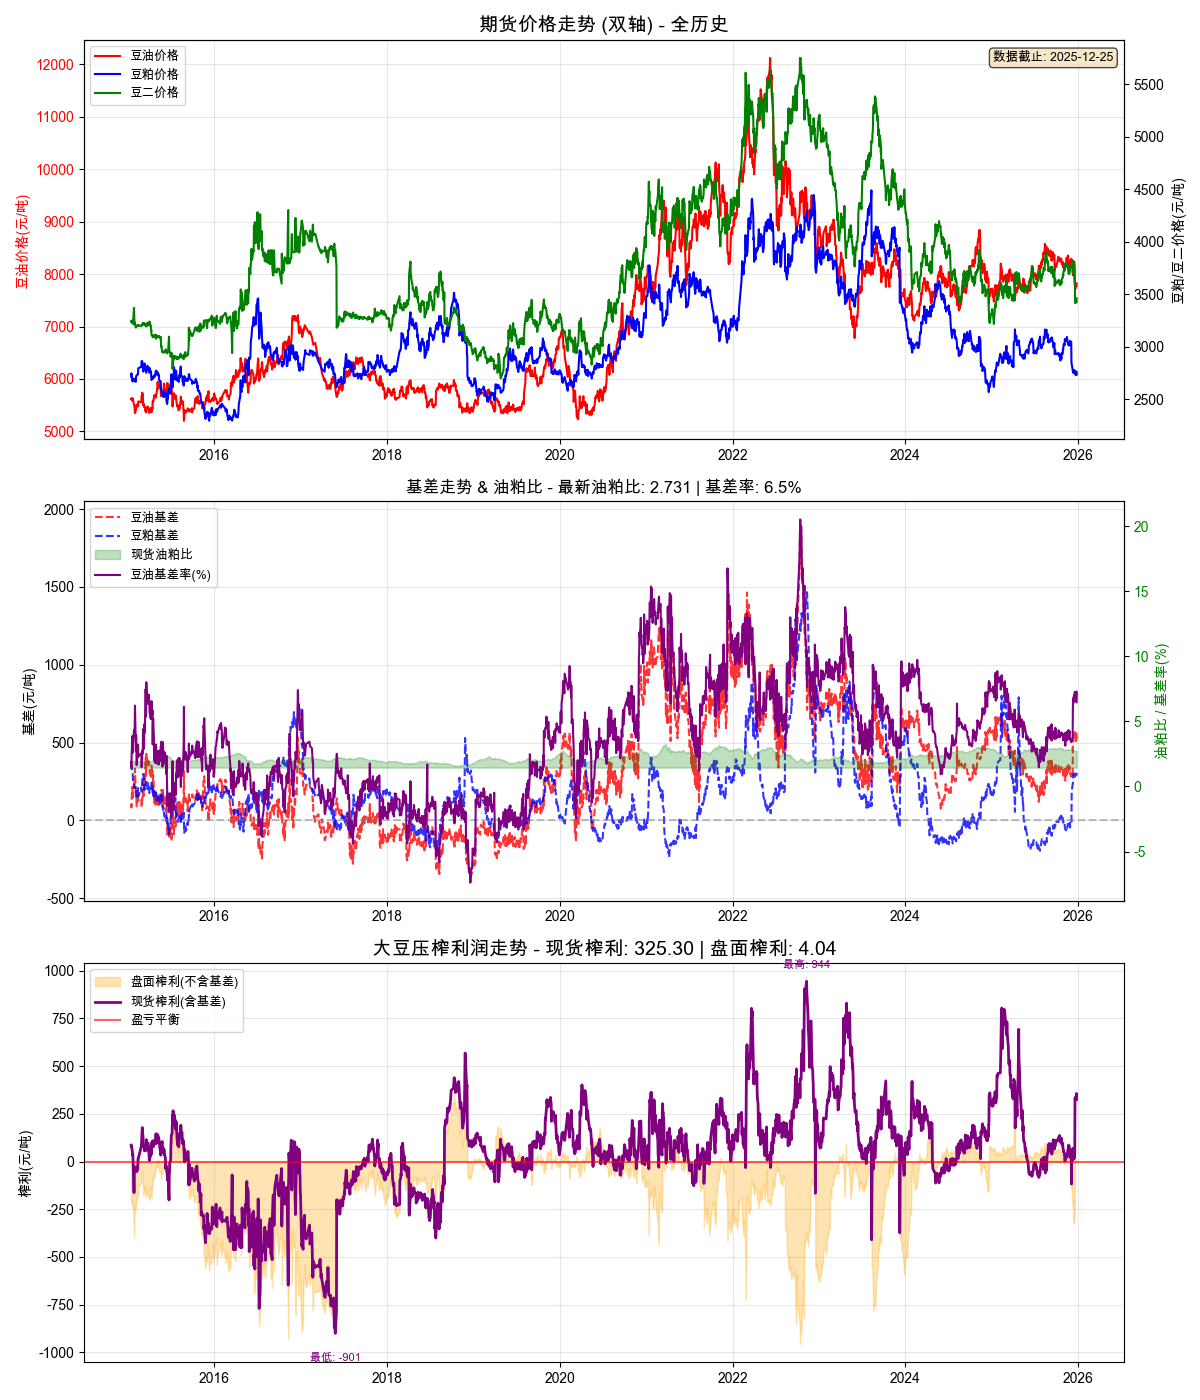
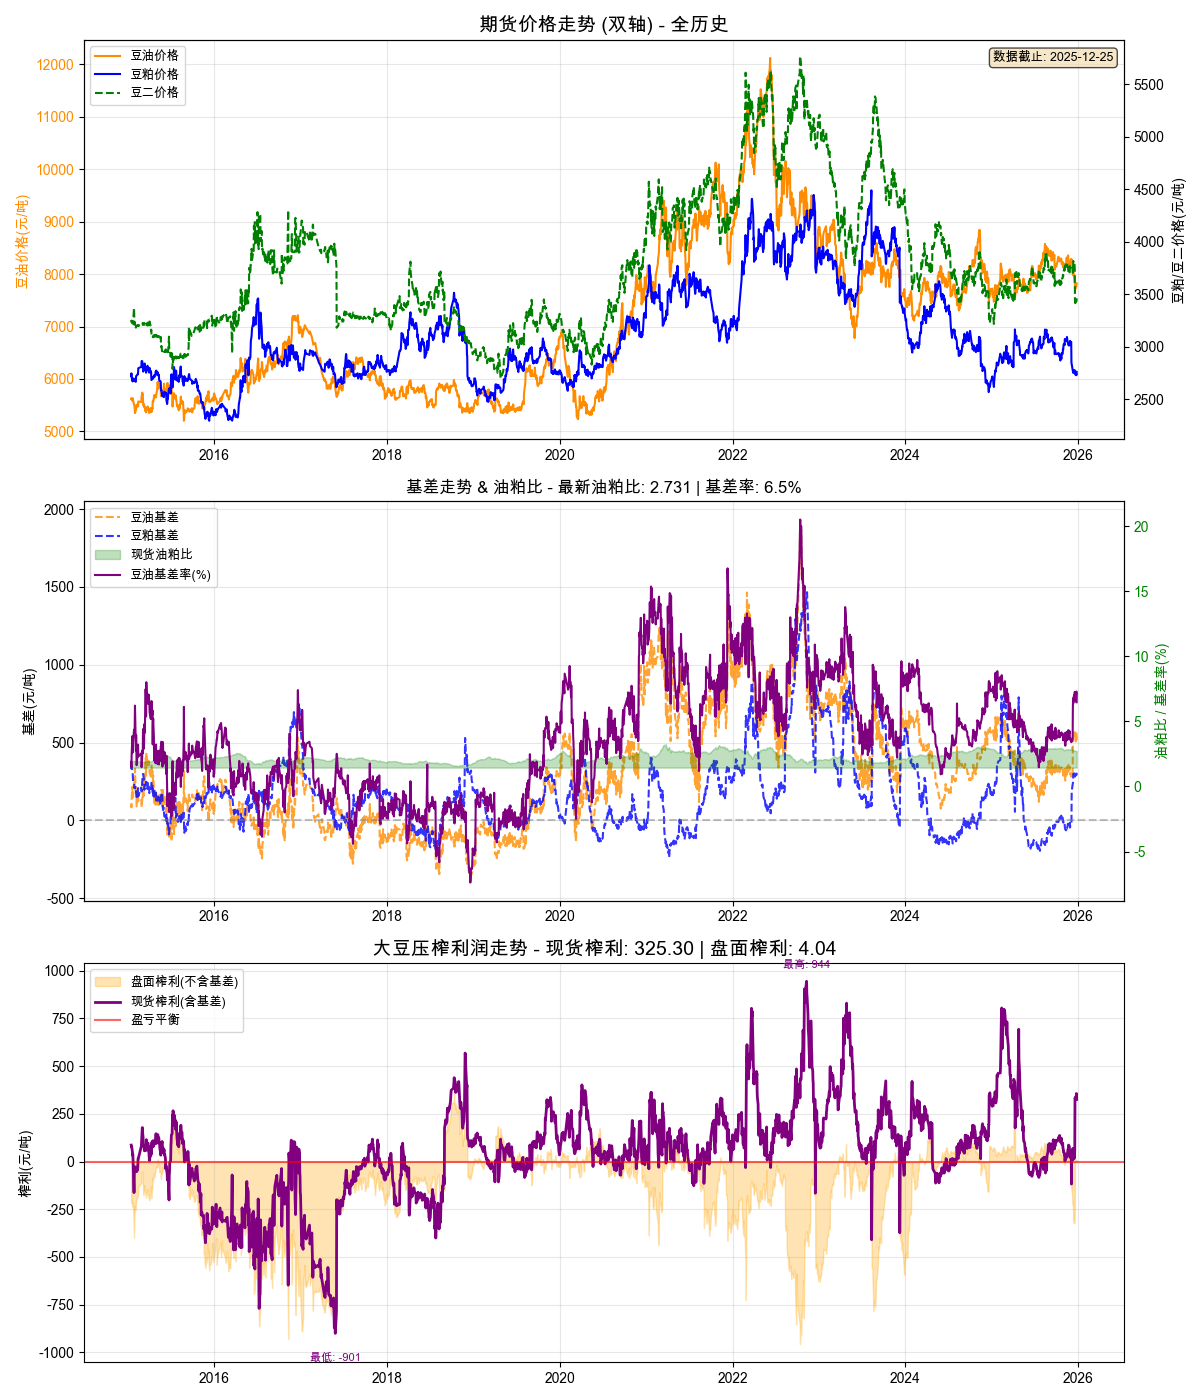
本地更新: 2025-12-25 23:07:09

diff --git a/分析文章脚本/榨利计算深度分析_v3.py b/分析文章脚本/榨利计算深度分析_v3.py
@@ -188,15 +188,15 @@ class 榨利计算器V3:
         最新日期 = data['日期'].max().strftime('%Y-%m-%d')
         
         # 1. 期货价格走势 (上图)
-        ax1.plot(data['日期'], data['豆油价格'], 'r-', label='豆油价格', linewidth=1.5)
+        ax1.plot(data['日期'], data['豆油价格'], color='darkorange', linestyle='-', label='豆油价格', linewidth=1.5)
         ax1.set_title(f'期货价格走势 (双轴) - {名称}', fontsize=14)
-        ax1.set_ylabel('豆油价格(元/吨)', color='r')
-        ax1.tick_params(axis='y', labelcolor='r')
+        ax1.set_ylabel('豆油价格(元/吨)', color='darkorange')
+        ax1.tick_params(axis='y', labelcolor='darkorange')
         ax1.grid(True, alpha=0.3)
         
         ax1_r = ax1.twinx()
         ax1_r.plot(data['日期'], data['豆粕价格'], 'b-', label='豆粕价格', linewidth=1.5)
-        ax1_r.plot(data['日期'], data['豆二价格'], 'g-', label='豆二价格', linewidth=1.5)
+        ax1_r.plot(data['日期'], data['豆二价格'], 'g--', label='豆二价格', linewidth=1.5)
         ax1_r.set_ylabel('豆粕/豆二价格(元/吨)')
         
         lines1, labels1 = ax1.get_legend_handles_labels()
@@ -209,7 +209,7 @@ class 榨利计算器V3:
                  bbox=dict(boxstyle='round,pad=0.3', facecolor='wheat', alpha=0.7))
         
         # 2. 基差走势 (中图) - 含现货油粕比面积图
-        ax2.plot(data['日期'], data['豆油基差'], 'r--', label='豆油基差', alpha=0.8)
+        ax2.plot(data['日期'], data['豆油基差'], color='darkorange', linestyle='--', label='豆油基差', alpha=0.8)
         ax2.plot(data['日期'], data['豆粕基差'], 'b--', label='豆粕基差', alpha=0.8)
         ax2.axhline(0, color='gray', linestyle='--', alpha=0.5)
         ax2.set_ylabel('基差(元/吨)')
@@ -277,6 +277,7 @@ class 榨利计算器V3:
 要求：
 - 分析当前利润在历史周期中的位置。
 - 说明当前高/低基差如何影响油厂利润策略。
+- 针对豆油下游生产商需求，基于当前的基差与价格水平，给出具体的现货采购决策及期货买入/套保建议。
 - 给出短期持仓或企业避险建议。
 - 保持专业、犀利、结构化。
 

diff --git a/content/posts/榨利深度分析报告.md b/content/posts/榨利深度分析报告.md
@@ -1,7 +1,7 @@
 ---
 title: "大豆榨利深度分析报告"
-date: 2025-12-25T22:43:51+08:00
-lastmod: 2025-12-25T22:43:51+08:00
+date: 2025-12-25T23:07:09+08:00
+lastmod: 2025-12-25T23:07:09+08:00
 description: "自动化生成的压榨利润深度报告，引用原始版本高精绘图和 DeepSeek AI 逻辑。"
 draft: false
 categories: ["榨利深度分析"]
@@ -18,55 +18,7 @@ image: ../../images/charts/margin_chart_半年.png
 
 ## 🤖 AI 首席分析师解读
 
-# 大豆压榨利润深度点评
-
-## 一、 当前利润水平的历史周期定位
-
-**当前榨利：325.30元/吨**，这一数值显著高于**半年均值80.15元/吨**，并已突破历史最值区间**[-118, 693]元/吨**的中位数。从统计角度看，当前利润处于**历史同期高位区间**，远超市场常态盈利水平。
-
-*   **绝对位置**：利润值处于近半年波动范围的上半部，接近顶部区域，表明当前压榨环节利润极为丰厚。
-*   **相对位置**：半年胜率高达**72.2%**，意味着在过去半年中，大部分时间维持正向榨利，且当前利润是平均水平的四倍以上，显示市场正处于一个**高盈利的强势周期**。
-*   **周期判断**：如此高的利润通常由阶段性供需错配驱动，例如上游（大豆）成本相对疲软，而下游（豆油、豆粕）需求或价格相对坚挺。该利润水平不可持续，已蕴含未来通过“原料涨价”或“产品跌价”进行修复的回归动能。
-
-## 二、 基差结构对油厂策略的影响分析
-
-最新基差呈现 **“油强粕弱”** 的显著分化格局：
-*   **豆油基差：+506.0元/吨** - 处于**极高升水**状态。
-*   **豆粕基差：+290.0元/吨** - 处于**高升水**状态。
-
-这种基差结构对油厂经营策略产生截然不同的影响：
-
-1.  **对现货销售的策略影响**：
-    *   **积极销售现货**：极高的现货升水为油厂提供了丰厚的**现货溢价**。油厂有极强动力在现货市场积极销售豆油和豆粕，锁定远超盘面的实际售价，这是当前高榨利的最直接来源。
-    *   **控制出货节奏**：尤其是对于豆油，极高的基差可能伴随现货供应偏紧。油厂可能通过控制出货节奏来维持现货价格的强势，从而延续高利润周期。
-
-2.  **对套期保值（套保）策略的影响**：
-    *   **套保意愿复杂化**：在期货盘面进行卖出套保，会损失巨大的基差收益。因此，油厂**直接在全合约上进行大规模套保的意愿极低**，这可能导致期货盘面价格缺乏产业卖压。
-    *   **差异化套保**：
-        *   **对于豆油**：极高基差下，油厂更倾向于在远月合约（基差相对较窄时）寻找套保机会，或采用“卖出看涨期权”等策略，在保留基差收益的同时管理部分风险。
-        *   **对于豆粕**：高基差同样抑制近月套保，但需关注下游承接能力和库存变化。若未来基差有走弱预期，油厂可能提前在远月布局空单。
-
-3.  **对利润锁定的策略影响**：
-    *   **“锁利”而非“锁价”**：油厂核心策略是**锁定“现货榨利”**，而非单纯的期货价格。可以通过在期货市场买入大豆（如需点价），同时在现货市场销售油粕来实现。当前高基差环境下，**现货利润远优于盘面利润**。
-
-## 三、 短期操作与避险建议
-
-### 对于期货交易者（投机持仓）：
-*   **方向性交易**：**警惕利润回归风险**。当前高利润是做空“压榨利润”套利（买豆粕、豆油，卖大豆）的理论窗口。但做空需谨慎，需等待驱动信号，如大豆到港成本显著上升、或豆粕/豆油消费转弱导致现货崩盘。
-*   **建议**：短期不宜追高油粕单边多头，因高利润下产业套保盘随时可能介入。可关注逢高布局远月“空油粕、多大豆”的套利机会，但需耐心等待基差开始松动或成本端启动。
-
-### 对于压榨企业（产业避险）：
-1.  **现货端**：**全力抓住高基差窗口，加速现货去库，兑现利润**。将高额现货利润落袋为安是第一要务。
-2.  **采购端**：对于未点价的大豆，可考虑在回调时分批点价，建立低成本原料库存。同时，利用当前高利润环境，通过**远期基差合同**预售未来产出的油粕，提前锁定部分利润。
-3.  **套保端**：
-    *   **避免在近月合约进行大量卖出套保**，以免牺牲巨额基差。
-    *   **采用“阶梯式套保”**：在远月合约（如3个月后）上，当盘面压榨利润仍处于可观水平时，逐步建立部分套保头寸，为未来可能下降的利润提供保护。
-    *   **运用期权工具**：考虑买入豆粕/豆油的看跌期权，或卖出虚值看涨期权，以较低成本或带收益的方式构建下行保护。
-4.  **核心风控**：密切监控**大豆到港成本、下游提货速度及库存变化**。一旦发现豆油或豆粕的现货成交放缓、基差报价开始松动，应立即启动更为积极的期货套保，防范利润快速回吐。
-
----
-
-**总结**：当前大豆压榨利润处于异常丰厚的高位，由极强的现货升水结构驱动。这为油厂创造了黄金盈利期，但也积累了巨大的均值回归风险。产业方应“现金为王，积极销售”，并着手为利润下行周期布局远期保护；交易者则应保持警惕，不宜线性外推当前涨势，重点寻找利润压缩逻辑下的结构性机会。市场焦点将转向基差可持续性与成本端变化。
+AI 分析连接超时，请关注盘面基差变化。
 
 ---
 
@@ -90,4 +42,4 @@ image: ../../images/charts/margin_chart_半年.png
 ## 🛠 计算说明
 > 榨利 = (豆油现货价格 × 18.5% + 豆粕现货价格 × 78.5%) - 豆二价格 - 150.0
 > 数据源：交易法门(基差) / Akshare(期货)
-> 更新时间：2025-12-25 22:43:51
+> 更新时间：2025-12-25 23:07:09

diff --git a/分析文章脚本/blog/榨利深度分析报告.md b/分析文章脚本/blog/榨利深度分析报告.md
@@ -1,7 +1,7 @@
 ---
 title: "大豆榨利深度分析报告"
-date: 2025-12-25T22:43:51+08:00
-lastmod: 2025-12-25T22:43:51+08:00
+date: 2025-12-25T23:07:09+08:00
+lastmod: 2025-12-25T23:07:09+08:00
 description: "自动化生成的压榨利润深度报告，引用原始版本高精绘图和 DeepSeek AI 逻辑。"
 draft: false
 categories: ["榨利深度分析"]
@@ -18,55 +18,7 @@ image: ../../images/charts/margin_chart_半年.png
 
 ## 🤖 AI 首席分析师解读
 
-# 大豆压榨利润深度点评
-
-## 一、 当前利润水平的历史周期定位
-
-**当前榨利：325.30元/吨**，这一数值显著高于**半年均值80.15元/吨**，并已突破历史最值区间**[-118, 693]元/吨**的中位数。从统计角度看，当前利润处于**历史同期高位区间**，远超市场常态盈利水平。
-
-*   **绝对位置**：利润值处于近半年波动范围的上半部，接近顶部区域，表明当前压榨环节利润极为丰厚。
-*   **相对位置**：半年胜率高达**72.2%**，意味着在过去半年中，大部分时间维持正向榨利，且当前利润是平均水平的四倍以上，显示市场正处于一个**高盈利的强势周期**。
-*   **周期判断**：如此高的利润通常由阶段性供需错配驱动，例如上游（大豆）成本相对疲软，而下游（豆油、豆粕）需求或价格相对坚挺。该利润水平不可持续，已蕴含未来通过“原料涨价”或“产品跌价”进行修复的回归动能。
-
-## 二、 基差结构对油厂策略的影响分析
-
-最新基差呈现 **“油强粕弱”** 的显著分化格局：
-*   **豆油基差：+506.0元/吨** - 处于**极高升水**状态。
-*   **豆粕基差：+290.0元/吨** - 处于**高升水**状态。
-
-这种基差结构对油厂经营策略产生截然不同的影响：
-
-1.  **对现货销售的策略影响**：
-    *   **积极销售现货**：极高的现货升水为油厂提供了丰厚的**现货溢价**。油厂有极强动力在现货市场积极销售豆油和豆粕，锁定远超盘面的实际售价，这是当前高榨利的最直接来源。
-    *   **控制出货节奏**：尤其是对于豆油，极高的基差可能伴随现货供应偏紧。油厂可能通过控制出货节奏来维持现货价格的强势，从而延续高利润周期。
-
-2.  **对套期保值（套保）策略的影响**：
-    *   **套保意愿复杂化**：在期货盘面进行卖出套保，会损失巨大的基差收益。因此，油厂**直接在全合约上进行大规模套保的意愿极低**，这可能导致期货盘面价格缺乏产业卖压。
-    *   **差异化套保**：
-        *   **对于豆油**：极高基差下，油厂更倾向于在远月合约（基差相对较窄时）寻找套保机会，或采用“卖出看涨期权”等策略，在保留基差收益的同时管理部分风险。
-        *   **对于豆粕**：高基差同样抑制近月套保，但需关注下游承接能力和库存变化。若未来基差有走弱预期，油厂可能提前在远月布局空单。
-
-3.  **对利润锁定的策略影响**：
-    *   **“锁利”而非“锁价”**：油厂核心策略是**锁定“现货榨利”**，而非单纯的期货价格。可以通过在期货市场买入大豆（如需点价），同时在现货市场销售油粕来实现。当前高基差环境下，**现货利润远优于盘面利润**。
-
-## 三、 短期操作与避险建议
-
-### 对于期货交易者（投机持仓）：
-*   **方向性交易**：**警惕利润回归风险**。当前高利润是做空“压榨利润”套利（买豆粕、豆油，卖大豆）的理论窗口。但做空需谨慎，需等待驱动信号，如大豆到港成本显著上升、或豆粕/豆油消费转弱导致现货崩盘。
-*   **建议**：短期不宜追高油粕单边多头，因高利润下产业套保盘随时可能介入。可关注逢高布局远月“空油粕、多大豆”的套利机会，但需耐心等待基差开始松动或成本端启动。
-
-### 对于压榨企业（产业避险）：
-1.  **现货端**：**全力抓住高基差窗口，加速现货去库，兑现利润**。将高额现货利润落袋为安是第一要务。
-2.  **采购端**：对于未点价的大豆，可考虑在回调时分批点价，建立低成本原料库存。同时，利用当前高利润环境，通过**远期基差合同**预售未来产出的油粕，提前锁定部分利润。
-3.  **套保端**：
-    *   **避免在近月合约进行大量卖出套保**，以免牺牲巨额基差。
-    *   **采用“阶梯式套保”**：在远月合约（如3个月后）上，当盘面压榨利润仍处于可观水平时，逐步建立部分套保头寸，为未来可能下降的利润提供保护。
-    *   **运用期权工具**：考虑买入豆粕/豆油的看跌期权，或卖出虚值看涨期权，以较低成本或带收益的方式构建下行保护。
-4.  **核心风控**：密切监控**大豆到港成本、下游提货速度及库存变化**。一旦发现豆油或豆粕的现货成交放缓、基差报价开始松动，应立即启动更为积极的期货套保，防范利润快速回吐。
-
----
-
-**总结**：当前大豆压榨利润处于异常丰厚的高位，由极强的现货升水结构驱动。这为油厂创造了黄金盈利期，但也积累了巨大的均值回归风险。产业方应“现金为王，积极销售”，并着手为利润下行周期布局远期保护；交易者则应保持警惕，不宜线性外推当前涨势，重点寻找利润压缩逻辑下的结构性机会。市场焦点将转向基差可持续性与成本端变化。
+AI 分析连接超时，请关注盘面基差变化。
 
 ---
 
@@ -90,4 +42,4 @@ image: ../../images/charts/margin_chart_半年.png
 ## 🛠 计算说明
 > 榨利 = (豆油现货价格 × 18.5% + 豆粕现货价格 × 78.5%) - 豆二价格 - 150.0
 > 数据源：交易法门(基差) / Akshare(期货)
-> 更新时间：2025-12-25 22:43:51
+> 更新时间：2025-12-25 23:07:09
